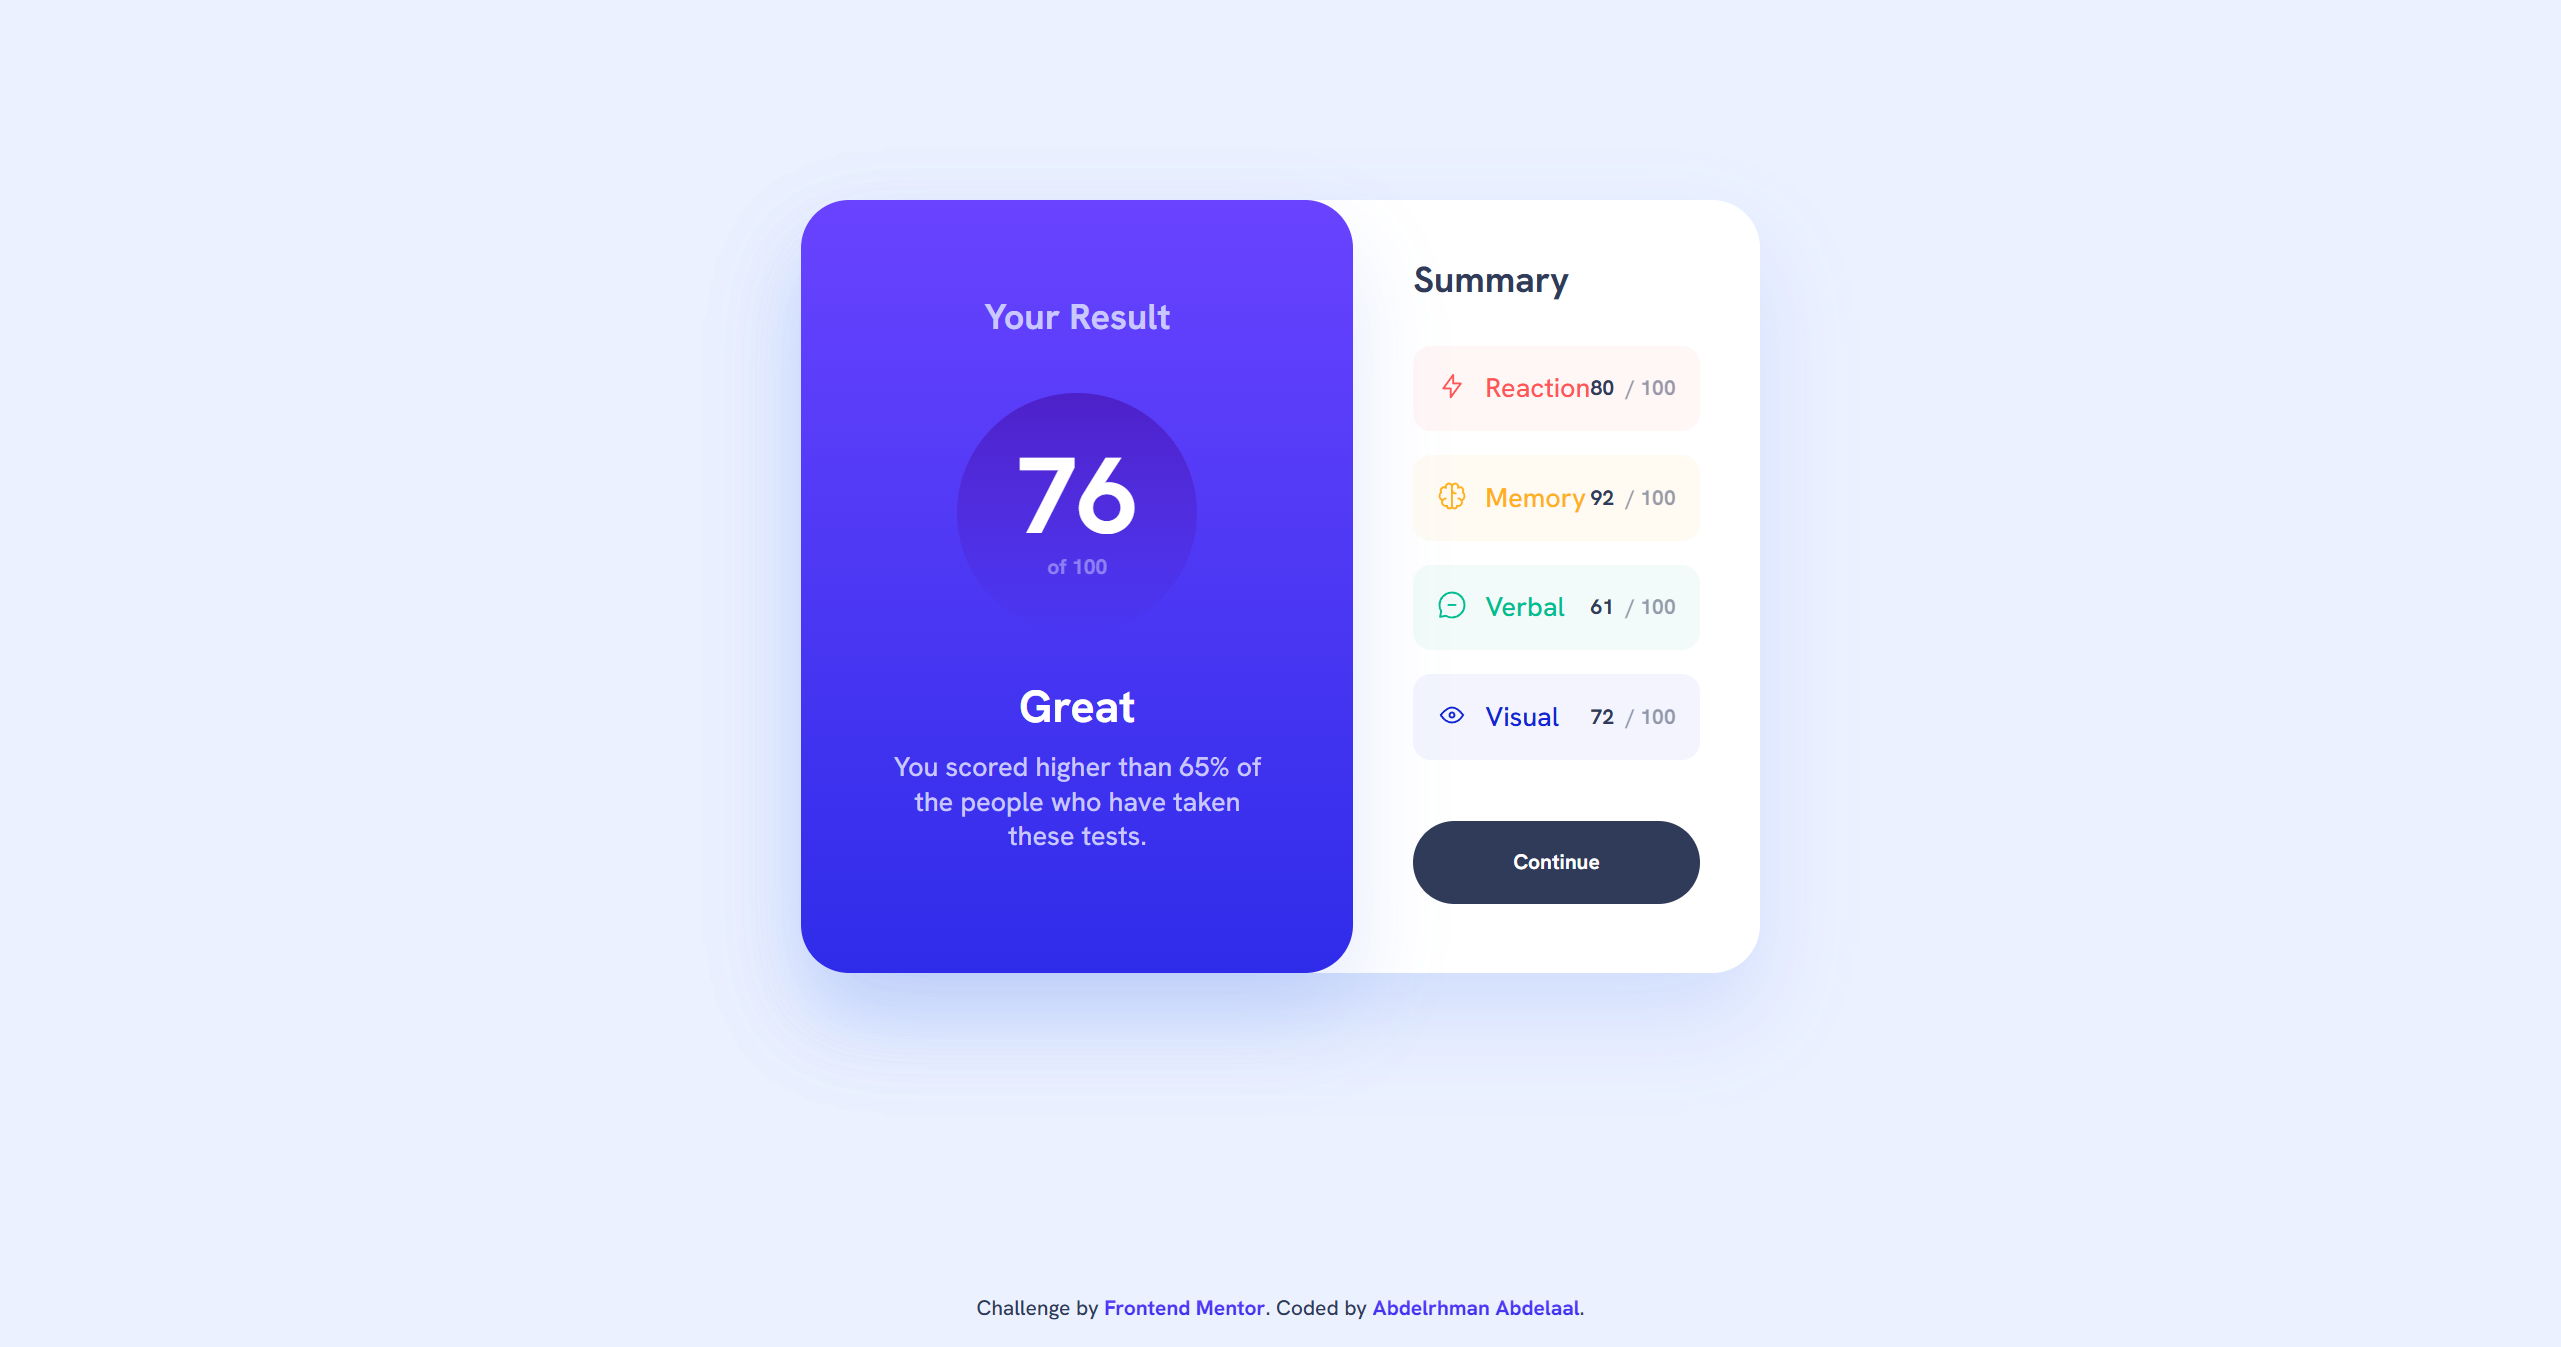
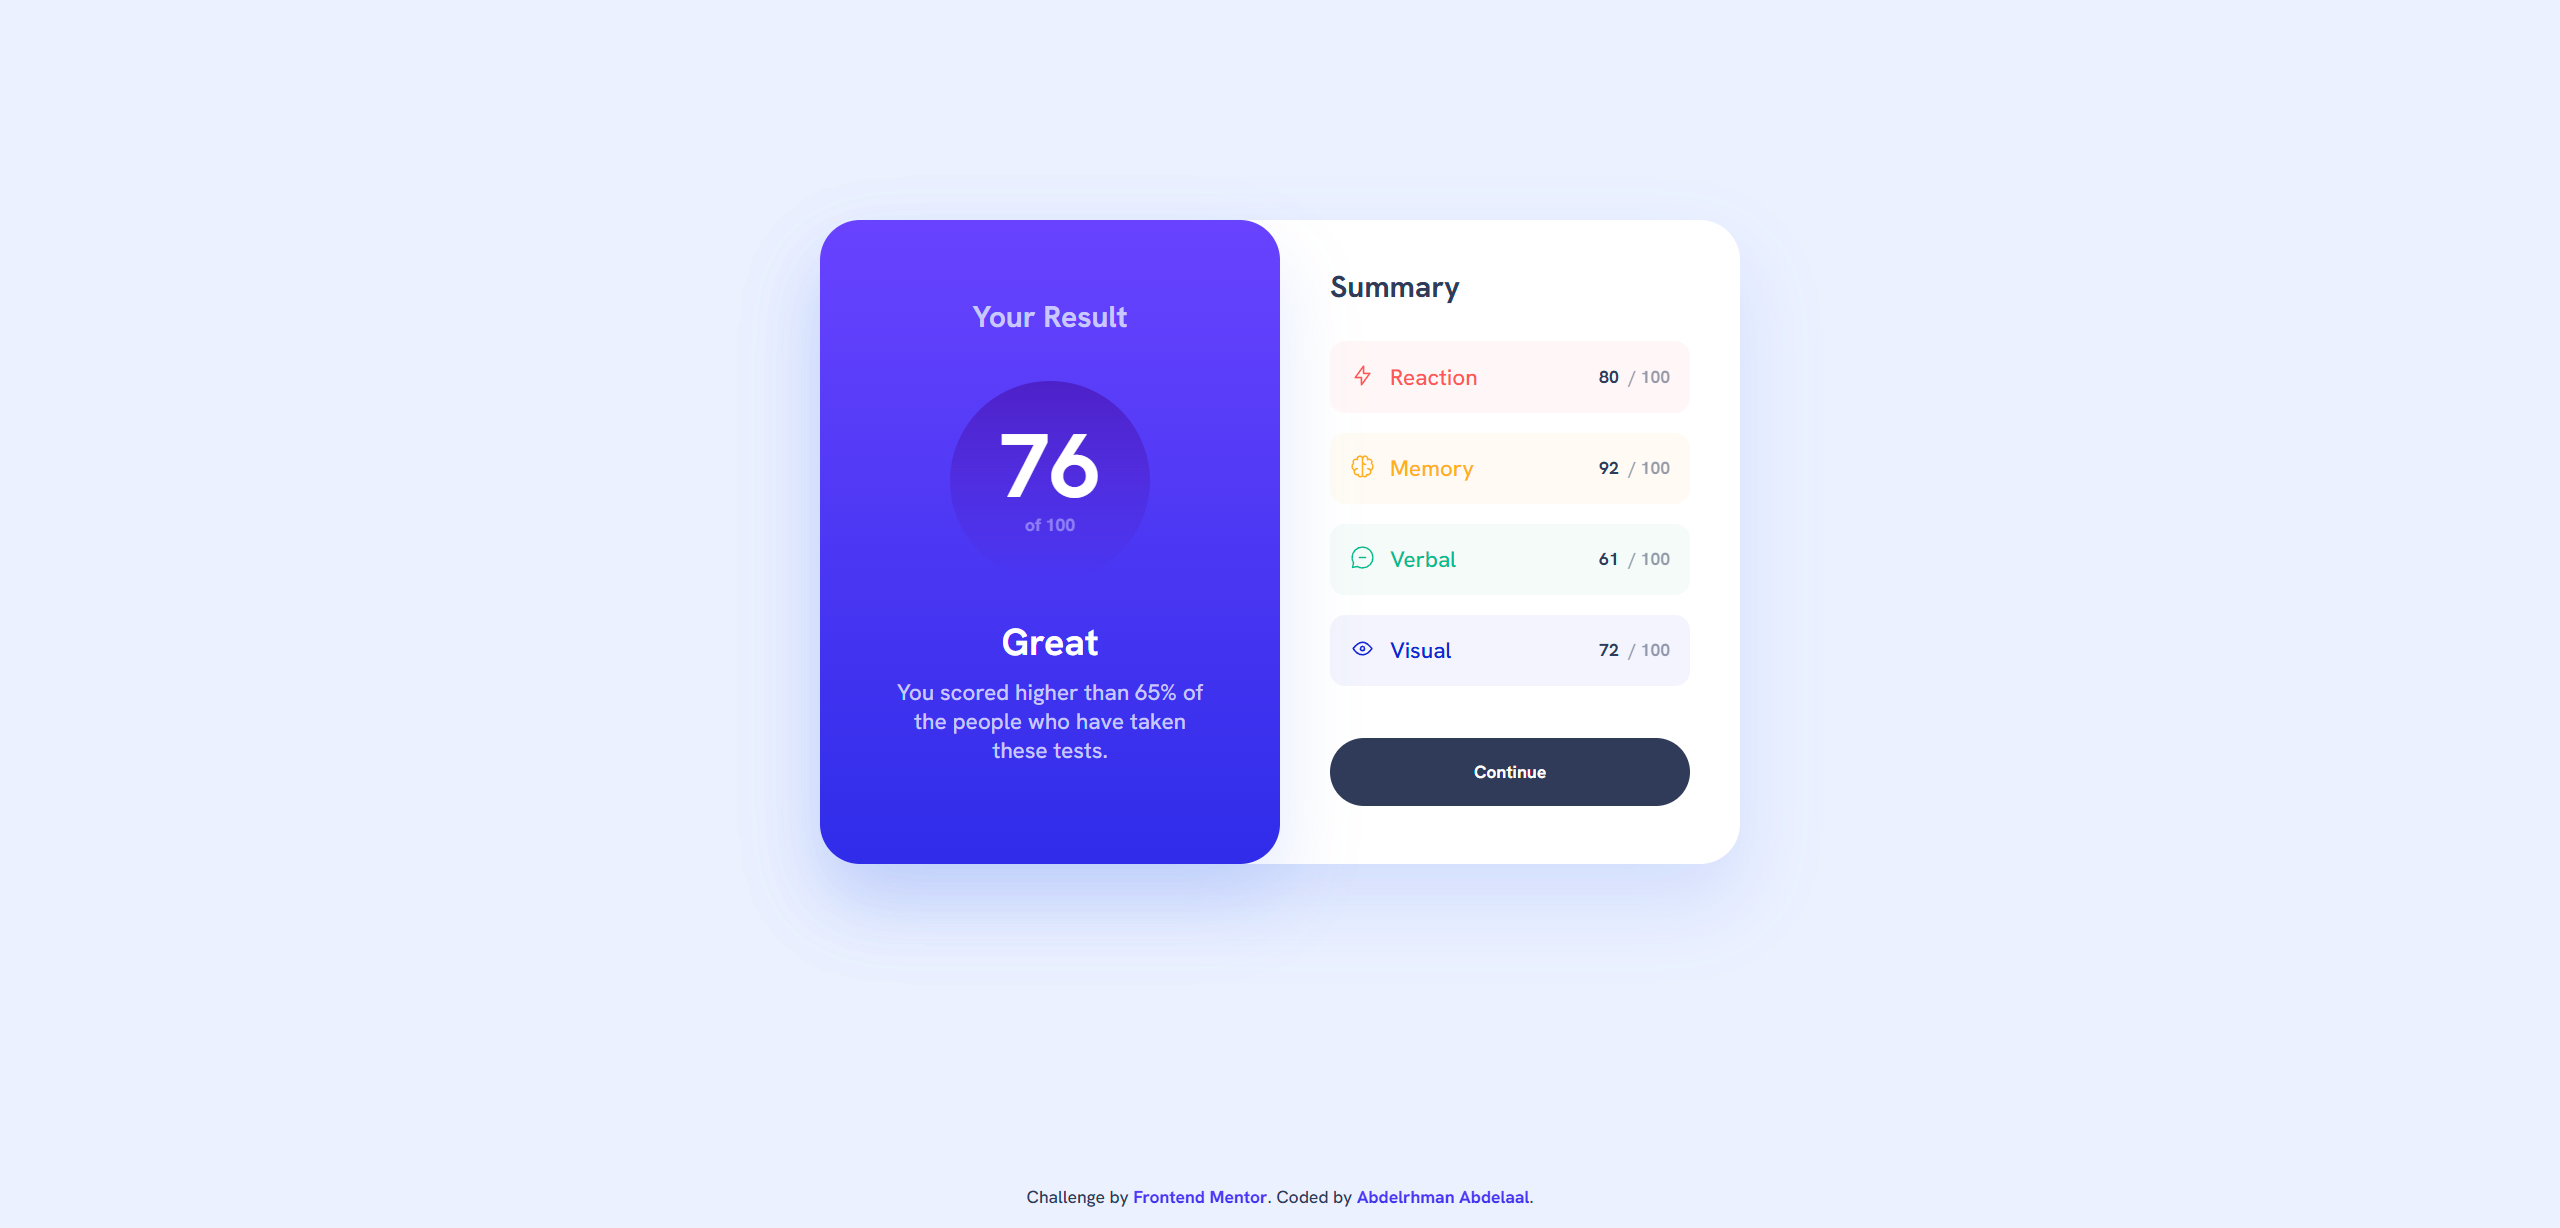
Update main content margin in App component for improved layout consistency

Changed region(s): [[0.3125, 0.1238, 0.6875, 0.7427], [0.375, 0.2166, 0.4688, 0.4332], [0.375, 0.9593, 0.625, 0.9902]]

diff --git a/src/App.tsx b/src/App.tsx
@@ -3,7 +3,7 @@ import { ResultSummary } from "components";
 export default function App() {
   return (
     <div className="bg-pale-blue relative grid min-h-dvh w-full grid-cols-1 grid-rows-[1fr_auto] sm:place-content-center">
-      <main className="mx-auto w-full max-w-184 place-self-center">
+      <main className="mx-auto mt-9 w-full max-w-184 place-self-center">
         <ResultSummary />
       </main>
       <footer className="text-dark-gray-blue mt-auto w-full pb-4 text-center text-sm font-light">